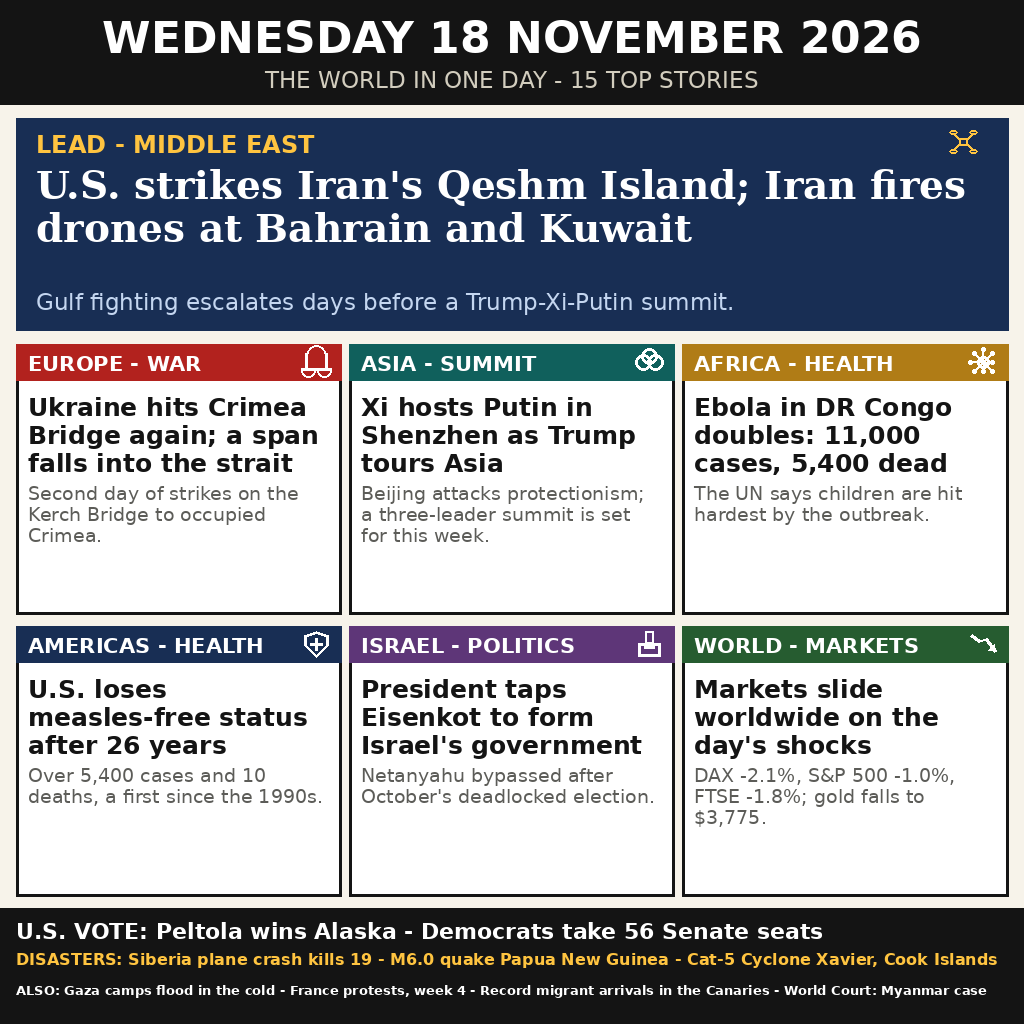
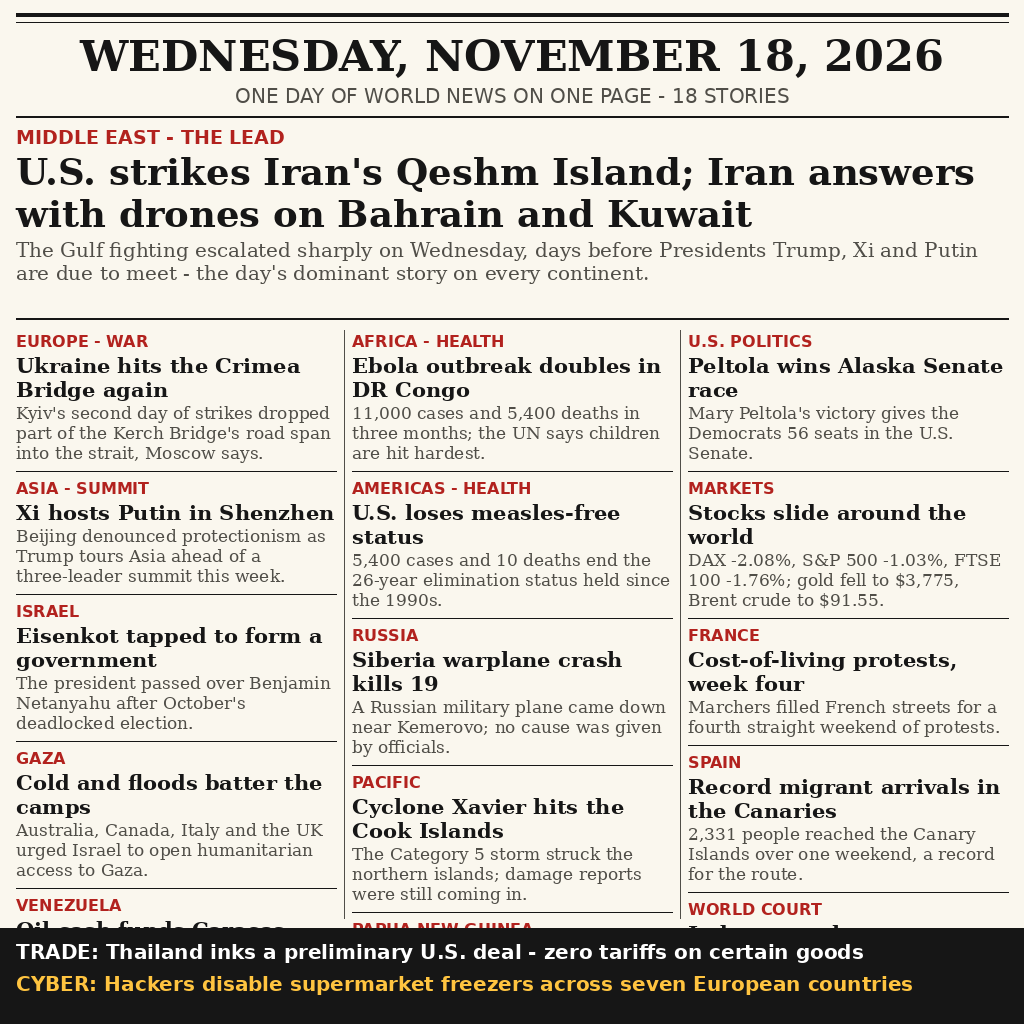
v4: broadsheet edition - 18 stories in ruled text columns

diff --git a/draw_image.py b/draw_image.py
@@ -1,40 +1,28 @@
 #!/usr/bin/env python3
-"""Draw entry.png (v3, pictogram edition): the world news of Wednesday,
-18 November 2026 in one image - the v2 fifteen-story front page, with a
-small drawn pictogram in every panel's kicker bar so each story reads
-at a glance: a bridge for Crimea, three summit circles for Shenzhen,
-a virus for Ebola, a shield and cross for measles, a ballot box for
-Israel's government vote, a falling chart for the markets, and a drone
-over a burst for the lead story in the Gulf.
-
-Stories (from the day's independent roundups): U.S. strikes Iran's
-Qeshm Island and Iran fires drones at Bahrain and Kuwait; Ukraine
-hits the Crimea Bridge again and a span falls; Xi hosts Putin in
-Shenzhen as Trump tours Asia; Ebola in DR Congo doubles to 11,000
-cases and 5,400 deaths; the U.S. loses measles-free status after 26
-years; Israel's president taps Eisenkot to form a government; markets
-slide (DAX -2.1%, gold $3,775); Peltola wins Alaska and Democrats
-take 56 Senate seats; a Siberia plane crash kills 19, a magnitude 6.0
-quake hits Papua New Guinea and Category 5 Cyclone Xavier hits the
-Cook Islands; Gaza camps flood in the cold, France protests for a
-fourth weekend, record migrant arrivals reach the Canaries, and the
-World Court is to rule on the Myanmar genocide case.
+"""Draw entry.png (v4, broadsheet edition): the world news of
+Wednesday, 18 November 2026 set like a classic newspaper front page -
+a serif masthead with the date as the biggest type, one lead story,
+then fifteen more stories in three ruled text columns with short
+article bodies, and a two-item ticker under the fold. Eighteen
+stories in all, each cross-checked in the day's independent roundups:
+the Gulf escalation, the Crimea Bridge, the Shenzhen summit, Ebola,
+measles, Israel's government pick, Gaza's floods, Venezuela's oil
+billions, the Siberia crash, Cyclone Xavier, the Papua New Guinea
+quake, Alaska's Senate race, the market slide, France's protests,
+record Canary Islands arrivals, the Myanmar genocide case, the
+Thailand-U.S. trade deal and the European supermarket cyber-attack.
 """
 
 from PIL import Image, ImageDraw, ImageFont
 
 W = H = 1024
-PAPER = (247, 243, 234)
-INK = (20, 20, 20)
-WHITE = (255, 255, 255)
+PAPER = (250, 247, 238)
+INK = (22, 22, 22)
+GREY = (80, 78, 72)
 RED = (178, 34, 30)
-NAVY = (24, 46, 84)
-TEAL = (16, 96, 92)
-GOLD = (176, 124, 22)
-PURPLE = (94, 54, 120)
-GREEN = (38, 92, 48)
-GREY = (92, 92, 88)
+WHITE = (255, 255, 255)
 
+SERIF = "/usr/share/fonts/truetype/dejavu/DejaVuSerif.ttf"
 SERIF_B = "/usr/share/fonts/truetype/dejavu/DejaVuSerif-Bold.ttf"
 SANS = "/usr/share/fonts/truetype/dejavu/DejaVuSans.ttf"
 SANS_B = "/usr/share/fonts/truetype/dejavu/DejaVuSans-Bold.ttf"
@@ -58,7 +46,7 @@ def wrap(draw, text, fnt, max_w):
     return lines
 
 
-def text_block(draw, xy, text, fnt, fill, max_w, leading=1.12):
+def block(draw, xy, text, fnt, fill, max_w, leading=1.15):
     x, y = xy
     for line in wrap(draw, text, fnt, max_w):
         draw.text((x, y), line, font=fnt, fill=fill)
@@ -66,156 +54,119 @@ def text_block(draw, xy, text, fnt, fill, max_w, leading=1.12):
     return y
 
 
-def fit_line(draw, xy, text, fill, max_w, start=22):
-    size = start
-    while draw.textlength(text, font=font(SANS_B, size)) > max_w:
-        size -= 1
-    draw.text(xy, text, font=font(SANS_B, size), fill=fill)
+def story(draw, x, y, max_w, kicker, headline, body):
+    draw.text((x, y), kicker, font=font(SANS_B, 16), fill=RED)
+    y = block(draw, (x, y + 21), headline, font(SERIF_B, 21), INK, max_w)
+    y = block(draw, (x, y + 2), body, font(SERIF, 17), GREY, max_w,
+              leading=1.18)
+    return y + 8
 
 
-# --- pictograms, drawn in white inside a 30x30 box at (x, y) ---
-
-def icon_bridge(d, x, y, c):
-    d.line([x, y + 22, x + 30, y + 22], fill=c, width=3)
-    d.line([x + 5, y + 22, x + 5, y + 6], fill=c, width=3)
-    d.line([x + 25, y + 22, x + 25, y + 6], fill=c, width=3)
-    d.arc([x + 5, y - 2, x + 25, y + 22], start=180, end=360, fill=c, width=2)
-    d.arc([x, y + 16, x + 14, y + 30], start=0, end=180, fill=c, width=2)
-    d.arc([x + 16, y + 16, x + 30, y + 30], start=0, end=180, fill=c, width=2)
-
-
-def icon_circles(d, x, y, c):
-    d.ellipse([x + 1, y + 7, x + 17, y + 23], outline=c, width=3)
-    d.ellipse([x + 13, y + 7, x + 29, y + 23], outline=c, width=3)
-    d.ellipse([x + 7, y + 1, x + 23, y + 17], outline=c, width=3)
-
-
-def icon_virus(d, x, y, c):
-    d.ellipse([x + 9, y + 9, x + 21, y + 21], outline=c, width=3)
-    for dx, dy in [(15, 2), (15, 24), (2, 15), (24, 15),
-                   (6, 6), (24, 6), (6, 24), (24, 24)]:
-        d.line([x + 15, y + 15, x + dx, y + dy], fill=c, width=2)
-        d.ellipse([x + dx - 2, y + dy - 2, x + dx + 2, y + dy + 2], fill=c)
-
-
-def icon_shield(d, x, y, c):
-    d.polygon([(x + 15, y + 2), (x + 27, y + 6), (x + 27, y + 16),
-               (x + 15, y + 28), (x + 3, y + 16), (x + 3, y + 6)],
-              outline=c, width=3)
-    d.line([x + 15, y + 9, x + 15, y + 21], fill=c, width=3)
-    d.line([x + 9, y + 15, x + 21, y + 15], fill=c, width=3)
-
-
-def icon_ballot(d, x, y, c):
-    d.rectangle([x + 4, y + 14, x + 26, y + 27], outline=c, width=3)
-    d.line([x + 10, y + 18, x + 20, y + 18], fill=c, width=3)
-    d.rectangle([x + 11, y + 2, x + 19, y + 14], outline=c, width=2)
-
-
-def icon_chart(d, x, y, c):
-    pts = [(x + 3, y + 6), (x + 11, y + 12), (x + 18, y + 10),
-           (x + 27, y + 22)]
-    d.line(pts, fill=c, width=3)
-    d.polygon([(x + 27, y + 22), (x + 20, y + 21), (x + 26, y + 15)],
-              fill=c)
-
-
-def icon_drone(d, x, y, c):
-    d.rectangle([x + 11, y + 12, x + 19, y + 19], outline=c, width=2)
-    for cx, cy in [(5, 6), (25, 6), (5, 25), (25, 25)]:
-        d.ellipse([x + cx - 4, y + cy - 2, x + cx + 4, y + cy + 2],
-                  outline=c, width=2)
-    d.line([x + 11, y + 13, x + 6, y + 8], fill=c, width=2)
-    d.line([x + 19, y + 13, x + 24, y + 8], fill=c, width=2)
-    d.line([x + 11, y + 18, x + 6, y + 23], fill=c, width=2)
-    d.line([x + 19, y + 18, x + 24, y + 23], fill=c, width=2)
-
-
-ICONS = {
-    "EUROPE - WAR": icon_bridge,
-    "ASIA - SUMMIT": icon_circles,
-    "AFRICA - HEALTH": icon_virus,
-    "AMERICAS - HEALTH": icon_shield,
-    "ISRAEL - POLITICS": icon_ballot,
-    "WORLD - MARKETS": icon_chart,
-}
-
-
-def panel(draw, box, kicker, kicker_color, headline, detail):
-    x0, y0, x1, y1 = box
-    draw.rectangle(box, fill=WHITE, outline=INK, width=3)
-    draw.rectangle([x0, y0, x1, y0 + 36], fill=kicker_color)
-    draw.text((x0 + 12, y0 + 7), kicker, font=font(SANS_B, 21), fill=WHITE)
-    ICONS[kicker](draw, x1 - 40, y0 + 3, WHITE)
-    y = text_block(draw, (x0 + 12, y0 + 48), headline,
-                   font(SANS_B, 25), INK, x1 - x0 - 24)
-    text_block(draw, (x0 + 12, y + 6), detail,
-               font(SANS, 19), GREY, x1 - x0 - 24)
+def rule(draw, x0, x1, y):
+    draw.line([x0, y, x1, y], fill=INK, width=1)
 
 
 def main():
     img = Image.new("RGB", (W, H), PAPER)
     d = ImageDraw.Draw(img)
 
-    d.rectangle([0, 0, W, 104], fill=INK)
-    d.text((W // 2, 12), "WEDNESDAY 18 NOVEMBER 2026",
-           font=font(SANS_B, 44), fill=WHITE, anchor="ma")
-    d.text((W // 2, 66), "THE WORLD IN ONE DAY - 15 TOP STORIES",
-           font=font(SANS, 23), fill=(210, 205, 190), anchor="ma")
+    # Masthead.
+    d.line([16, 14, W - 16, 14], fill=INK, width=4)
+    d.line([16, 22, W - 16, 22], fill=INK, width=1)
+    d.text((W // 2, 30), "WEDNESDAY, NOVEMBER 18, 2026",
+           font=font(SERIF_B, 43), fill=INK, anchor="ma")
+    d.text((W // 2, 84),
+           "ONE DAY OF WORLD NEWS ON ONE PAGE - 18 STORIES",
+           font=font(SANS, 20), fill=GREY, anchor="ma")
+    d.line([16, 116, W - 16, 116], fill=INK, width=2)
 
-    # Lead story, with a drone pictogram beside the kicker.
-    d.rectangle([16, 118, W - 16, 330], fill=NAVY)
-    d.text((36, 130), "LEAD - MIDDLE EAST", font=font(SANS_B, 24),
-           fill=(255, 196, 64))
-    icon_drone(d, W - 76, 126, (255, 196, 64))
-    text_block(d, (36, 162),
-               "U.S. strikes Iran's Qeshm Island; Iran fires drones "
-               "at Bahrain and Kuwait",
-               font(SERIF_B, 39), WHITE, W - 72)
-    d.text((36, 288),
-           "Gulf fighting escalates days before a Trump-Xi-Putin summit.",
-           font=font(SANS, 23), fill=(196, 214, 240))
+    # Lead story.
+    d.text((16, 126), "MIDDLE EAST - THE LEAD", font=font(SANS_B, 19),
+           fill=RED)
+    y = block(d, (16, 150),
+              "U.S. strikes Iran's Qeshm Island; Iran answers with "
+              "drones on Bahrain and Kuwait",
+              font(SERIF_B, 37), INK, W - 32)
+    block(d, (16, y + 4),
+          "The Gulf fighting escalated sharply on Wednesday, days "
+          "before Presidents Trump, Xi and Putin are due to meet - "
+          "the day's dominant story on every continent.",
+          font(SERIF, 20), GREY, W - 32)
+    d.line([16, 318, W - 16, 318], fill=INK, width=2)
 
-    rows_y = [(344, 614), (626, 896)]
-    cols_x = [(16, 341), (349, 674), (682, 1008)]
-    stories = [
-        ("EUROPE - WAR", RED,
-         "Ukraine hits Crimea Bridge again; a span falls into the strait",
-         "Second day of strikes on the Kerch Bridge to occupied Crimea."),
-        ("ASIA - SUMMIT", TEAL,
-         "Xi hosts Putin in Shenzhen as Trump tours Asia",
-         "Beijing attacks protectionism; a three-leader summit is set "
-         "for this week."),
-        ("AFRICA - HEALTH", GOLD,
-         "Ebola in DR Congo doubles: 11,000 cases, 5,400 dead",
-         "The UN says children are hit hardest by the outbreak."),
-        ("AMERICAS - HEALTH", NAVY,
-         "U.S. loses measles-free status after 26 years",
-         "Over 5,400 cases and 10 deaths, a first since the 1990s."),
-        ("ISRAEL - POLITICS", PURPLE,
-         "President taps Eisenkot to form Israel's government",
-         "Netanyahu bypassed after October's deadlocked election."),
-        ("WORLD - MARKETS", GREEN,
-         "Markets slide worldwide on the day's shocks",
-         "DAX -2.1%, S&P 500 -1.0%, FTSE -1.8%; gold falls to $3,775."),
+    # Three text columns.
+    cols = [(16, 320), (352, 320), (688, 320)]
+    col_w = 320
+    col1 = [
+        ("EUROPE - WAR", "Ukraine hits the Crimea Bridge again",
+         "Kyiv's second day of strikes dropped part of the Kerch "
+         "Bridge's road span into the strait, Moscow says."),
+        ("ASIA - SUMMIT", "Xi hosts Putin in Shenzhen",
+         "Beijing denounced protectionism as Trump tours Asia ahead "
+         "of a three-leader summit this week."),
+        ("ISRAEL", "Eisenkot tapped to form a government",
+         "The president passed over Benjamin Netanyahu after "
+         "October's deadlocked election."),
+        ("GAZA", "Cold and floods batter the camps",
+         "Australia, Canada, Italy and the UK urged Israel to open "
+         "humanitarian access to Gaza."),
+        ("VENEZUELA", "Oil cash funds Caracas spending",
+         "A U.S. State Department report counts $12bn in oil and "
+         "mineral revenue for the government."),
     ]
-    for i, (kicker, color, headline, detail) in enumerate(stories):
-        y0, y1 = rows_y[i // 3]
-        x0, x1 = cols_x[i % 3]
-        panel(d, [x0, y0, x1, y1], kicker, color, headline, detail)
+    col2 = [
+        ("AFRICA - HEALTH", "Ebola outbreak doubles in DR Congo",
+         "11,000 cases and 5,400 deaths in three months; the UN says "
+         "children are hit hardest."),
+        ("AMERICAS - HEALTH", "U.S. loses measles-free status",
+         "5,400 cases and 10 deaths end the 26-year elimination "
+         "status held since the 1990s."),
+        ("RUSSIA", "Siberia warplane crash kills 19",
+         "A Russian military plane came down near Kemerovo; no cause "
+         "was given by officials."),
+        ("PACIFIC", "Cyclone Xavier hits the Cook Islands",
+         "The Category 5 storm struck the northern islands; damage "
+         "reports were still coming in."),
+        ("PAPUA NEW GUINEA", "Magnitude 6.0 earthquake strikes",
+         "A strong quake shook Papua New Guinea on Wednesday, the "
+         "day's second Pacific disaster."),
+    ]
+    col3 = [
+        ("U.S. POLITICS", "Peltola wins Alaska Senate race",
+         "Mary Peltola's victory gives the Democrats 56 seats in the "
+         "U.S. Senate."),
+        ("MARKETS", "Stocks slide around the world",
+         "DAX -2.08%, S&P 500 -1.03%, FTSE 100 -1.76%; gold fell to "
+         "$3,775, Brent crude to $91.55."),
+        ("FRANCE", "Cost-of-living protests, week four",
+         "Marchers filled French streets for a fourth straight "
+         "weekend of protests."),
+        ("SPAIN", "Record migrant arrivals in the Canaries",
+         "2,331 people reached the Canary Islands over one weekend, "
+         "a record for the route."),
+        ("WORLD COURT", "Judges to rule on Myanmar case",
+         "The World Court will decide the genocide case over "
+         "Myanmar's treatment of the Rohingya."),
+    ]
+    for (x, _), items in zip(cols, [col1, col2, col3]):
+        y = 332
+        for kicker, headline, body in items:
+            y = story(d, x, y, col_w, kicker, headline, body)
+            rule(d, x, x + col_w, y)
+            y += 8
+    d.line([344, 330, 344, 918], fill=GREY, width=1)
+    d.line([680, 330, 680, 918], fill=GREY, width=1)
 
-    d.rectangle([0, 908, W, H], fill=INK)
-    fit_line(d, (16, 918),
-             "U.S. VOTE: Peltola wins Alaska - Democrats take 56 Senate seats",
-             WHITE, W - 32)
-    fit_line(d, (16, 950),
-             "DISASTERS: Siberia plane crash kills 19 - M6.0 quake Papua New "
-             "Guinea - Cat-5 Cyclone Xavier, Cook Islands",
-             (255, 196, 64), W - 32)
-    fit_line(d, (16, 982),
-             "ALSO: Gaza camps flood in the cold - France protests, week 4 - "
-             "Record migrant arrivals in the Canaries - World Court: Myanmar case",
-             WHITE, W - 32)
+    # Under the fold: two more stories in a dark band.
+    d.rectangle([0, 928, W, H], fill=INK)
+    d.text((16, 940),
+           "TRADE: Thailand inks a preliminary U.S. deal - zero tariffs "
+           "on certain goods",
+           font=font(SANS_B, 20), fill=WHITE)
+    d.text((16, 972),
+           "CYBER: Hackers disable supermarket freezers across seven "
+           "European countries",
+           font=font(SANS_B, 20), fill=(255, 196, 64))
 
     img.save("entry.png", optimize=True)
     print("wrote entry.png", img.size)
